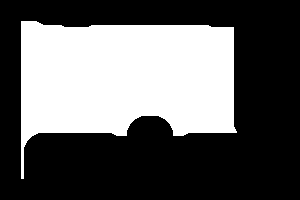
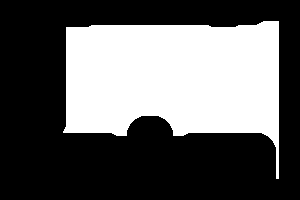
Consigne XY avec accès en arrière

Changed region(s): [[0.06, 0.09, 0.24, 0.9], [0.78, 0.09, 0.93, 0.9]]

diff --git a/robot-system-lib-parent/robot-system-lib-core/src/main/java/org/arig/robot/system/TrajectoryManager.java b/robot-system-lib-parent/robot-system-lib-core/src/main/java/org/arig/robot/system/TrajectoryManager.java
@@ -12,6 +12,7 @@ import org.arig.robot.model.Chemin;
 import org.arig.robot.model.CommandeRobot;
 import org.arig.robot.model.Point;
 import org.arig.robot.model.Position;
+import org.arig.robot.model.enums.SensDeplacement;
 import org.arig.robot.model.enums.SensRotation;
 import org.arig.robot.model.enums.TypeConsigne;
 import org.arig.robot.model.monitor.AbstractMonitorMouvement;
@@ -31,6 +32,7 @@ import org.springframework.beans.factory.InitializingBean;
 import org.springframework.beans.factory.annotation.Autowired;
 import org.springframework.beans.factory.annotation.Qualifier;
 
+import javax.validation.constraints.NotNull;
 import java.util.ArrayList;
 import java.util.concurrent.atomic.AtomicBoolean;
 import java.util.stream.Collectors;
@@ -289,10 +291,25 @@ public class TrajectoryManager implements InitializingBean, ITrajectoryManager {
             double consDist = calculDistance(dX, dY);
             double consOrient = calculAngleConsigne(dX, dY);
 
-            // Calcul du coef d'annulation de la distance
-            // Permet d'effectuer un demi tour en 3 temps.
-            if (startAngle != -1 && Math.abs(consOrient) > startAngle) {
-                consDist = (consDist * ((startAngle - Math.abs(consOrient)) / startAngle));
+            switch(cmdRobot.getSensDeplacement()) {
+                case DEMI_TOUR:
+                    if (startAngle != -1 && Math.abs(consOrient) > startAngle) {
+                        // Calcul du coef d'annulation de la distance
+                        // Permet d'effectuer un demi tour en 3 temps.
+                        consDist = (consDist * ((startAngle - Math.abs(consOrient)) / startAngle));
+
+                    }
+                    break;
+
+                case ARRIERE:
+                case AUTO:
+                    if (cmdRobot.getSensDeplacement() == SensDeplacement.ARRIERE || Math.abs(consOrient) > conv.degToPulse(90)) {
+                        // Atteindre la destination en arrière
+                        consDist = -consDist;
+                        consOrient = conv.degToPulse(ajusteAngleDeg(180 + conv.pulseToDeg(consOrient)));
+                    }
+                    break;
+
             }
 
             // Sauvegarde des consignes
@@ -338,11 +355,11 @@ public class TrajectoryManager implements InitializingBean, ITrajectoryManager {
      * @param angle angle a ajusté
      * @return Angle ajusté dans les borne -180 .. 180
      */
-    private double ajusteAngle(double angle) {
+    private double ajusteAngleDeg(double angle) {
         if (angle > 180) {
-            return ajusteAngle(angle - 360);
+            return ajusteAngleDeg(angle - 360);
         } else if (angle < -180) {
-            return ajusteAngle(angle + 360);
+            return ajusteAngleDeg(angle + 360);
         }
 
         // L'angle est dans les borne.
@@ -358,7 +375,7 @@ public class TrajectoryManager implements InitializingBean, ITrajectoryManager {
      * @return
      */
     private double calculAngleDelta(double angleOrig, double angle, SensRotation sensRotation) {
-        angle = ajusteAngle(angle);
+        angle = ajusteAngleDeg(angle);
 
         switch (sensRotation) {
             case TRIGO:
@@ -451,20 +468,19 @@ public class TrajectoryManager implements InitializingBean, ITrajectoryManager {
      */
     @Override
     public void pathTo(final double targetXmm, final double targetYmm) throws NoPathFoundException, AvoidingException {
-        pathTo(targetXmm, targetYmm, true);
+        pathTo(targetXmm, targetYmm, SensDeplacement.AUTO);
     }
-
 
     /**
      * Génération d'un déplacement avec le Path Finding
      *
      * @param targetXmm position sur l'axe X
      * @param targetYmm position sur l'axe Y
-     * @param avecArret
+     * @param sens Permet de définir le sens de déplacement souhaiter
      * @throws NoPathFoundException
      */
     @Override
-    public void pathTo(final double targetXmm, final double targetYmm, final boolean avecArret) throws NoPathFoundException, AvoidingException {
+    public void pathTo(final double targetXmm, final double targetYmm, final SensDeplacement sens) throws NoPathFoundException, AvoidingException {
         try {
             lidarService.waitCleanup();
         } catch (InterruptedException e) {
@@ -515,13 +531,16 @@ public class TrajectoryManager implements InitializingBean, ITrajectoryManager {
                     rs.enableAvoidance();
 
                     // Enchainement avec freinage, et alignement en rotation sur chaque point
-                    gotoPointMM(targetPoint.getX(), targetPoint.getY(), true);
+                    gotoPointMM(targetPoint.getX(), targetPoint.getY(), true, sens);
+
+                    // Enchainement avec freinage, et sans alignement en rotation
+                    //gotoPointMM(targetPoint.getX(), targetPoint.getY(), false, sens);
 
                     // Alignement en rotation sur le premier point, puis enchainement avec freinage jusqu'au dernier point
-                    //gotoPointMM(targetPoint.getX(), targetPoint.getY(), firstPoint);
+                    //gotoPointMM(targetPoint.getX(), targetPoint.getY(), firstPoint, sens);
 
                     // Alignement en rotation sur le premier point, puis enchainement sans freinage jusqu'au dernier point
-                    //gotoPointMM(targetPoint.getX(), targetPoint.getY(), firstPoint, !c.hasNext());
+                    //gotoPointMM(targetPoint.getX(), targetPoint.getY(), firstPoint, !c.hasNext(), sens);
 
                     // Après un tour ce n'est plus le premier point
                     firstPoint = false;
@@ -562,15 +581,28 @@ public class TrajectoryManager implements InitializingBean, ITrajectoryManager {
     }
 
     /**
-     * Méthode permettant de donner une consigne de position sur un point avec arret sur celui-ci.
+     * Méthode permettant de donner une consigne de position sur un point avec arret sur celui-ci en mode de déplacement AUTO.
      *
      * @param x position sur l'axe X
      * @param y position sur l'axe Y
      * @param avecOrientation Activation de l'orientation avant la translation
      */
     @Override
-    public void gotoPointMM(final double x, final double y, boolean avecOrientation) throws AvoidingException {
-        gotoPointMM(x, y, avecOrientation, true);
+    public void gotoPointMM(final double x, final double y, final boolean avecOrientation) throws AvoidingException {
+        gotoPointMM(x, y, avecOrientation, true, SensDeplacement.AUTO);
+    }
+
+    /**
+     * Méthode permettant de donner une consigne de position sur un point avec arret sur celui-ci.
+     *
+     * @param x position sur l'axe X
+     * @param y position sur l'axe Y
+     * @param avecOrientation Activation de l'orientation avant la translation
+     * @param sens Permet de définir le sens de déplacement souhaiter
+     */
+    @Override
+    public void gotoPointMM(final double x, final double y, final boolean avecOrientation, final SensDeplacement sens) throws AvoidingException {
+        gotoPointMM(x, y, avecOrientation, true, sens);
     }
 
     /**
@@ -578,10 +610,25 @@ public class TrajectoryManager implements InitializingBean, ITrajectoryManager {
      *
      * @param x         position sur l'axe X
      * @param y         position sur l'axe Y
+     * @param avecOrientation Activation de l'orientation avant la translation. Si true la marche avant est prioritaire.
      * @param avecArret demande d'arret sur le point
      */
     @Override
     public void gotoPointMM(final double x, final double y, final boolean avecOrientation, final boolean avecArret) throws AvoidingException  {
+        gotoPointMM(x, y, avecOrientation, avecArret, SensDeplacement.AUTO);
+    }
+
+    /**
+     * Méthode permettant de donner une consigne de position sur un point
+     *
+     * @param x         position sur l'axe X
+     * @param y         position sur l'axe Y
+     * @param avecOrientation Activation de l'orientation avant la translation. Si true la marche avant est prioritaire.
+     * @param avecArret demande d'arret sur le point
+     * @param sens Permet de définir le sens de déplacement souhaiter
+     */
+    @Override
+    public void gotoPointMM(final double x, final double y, final boolean avecOrientation, final boolean avecArret, final SensDeplacement sens) throws AvoidingException  {
         log.info("Va au point X = {}mm ; Y = {}mm {}", x, y, avecArret ? "et arrete toi" : "sans arret");
 
         if (avecOrientation) {
@@ -589,7 +636,24 @@ public class TrajectoryManager implements InitializingBean, ITrajectoryManager {
 
             // Alignement sur le point
             rs.disableAvoidance();
-            alignFrontTo(x, y);
+
+            final SensDeplacement realSens;
+            switch (sens) {
+                case ARRIERE: realSens = SensDeplacement.ARRIERE;break;
+                case AVANT: realSens = SensDeplacement.AVANT;break;
+                default:
+                    double dX = conv.mmToPulse(x) - currentPosition.getPt().getX();
+                    double dY = conv.mmToPulse(y) - currentPosition.getPt().getY();
+                    double angle = calculAngleConsigne(dX, dY);
+                    realSens = Math.abs(angle) < conv.degToPulse(90) ? SensDeplacement.AVANT : SensDeplacement.ARRIERE;
+                    break;
+            }
+
+            if (realSens == SensDeplacement.ARRIERE) {
+                alignBackTo(x, y);
+            } else {
+                alignFrontTo(x, y);
+            }
 
             // Retour de l'évittement si actif avant
             if (avoidanceEnabled) {
@@ -603,22 +667,7 @@ public class TrajectoryManager implements InitializingBean, ITrajectoryManager {
             cmdRobot.getPosition().getPt().setY(conv.mmToPulse(y));
             cmdRobot.setFrein(avecArret);
             cmdRobot.setTypes(TypeConsigne.XY);
-
-//            if (!disableMonitor) {
-//                double dX = (cmdRobot.getPosition().getPt().getX() - currentPosition.getPt().getX());
-//                double dY = (cmdRobot.getPosition().getPt().getY() - currentPosition.getPt().getY());
-//                double distance = calculDistance(dX, dY);
-//
-//                MonitorMouvementTranslation mTr = new MonitorMouvementTranslation();
-//                mTr.setFromPoint(new Point(
-//                        conv.pulseToMm(currentPosition.getPt().getX()),
-//                        conv.pulseToMm(currentPosition.getPt().getY())
-//                ));
-//                mTr.setToPoint(new Point(x, y));
-//                mTr.setDistance(conv.pulseToMm(distance));
-//                currentMouvement = mTr;
-//                monitoring.addMouvementPoint(mTr);
-//            }
+            cmdRobot.setSensDeplacement(sens);
 
             prepareNextMouvement();
         }

diff --git a/nerell-parent/nerell-common/src/main/java/org/arig/robot/Ordonanceur.java b/nerell-parent/nerell-common/src/main/java/org/arig/robot/Ordonanceur.java
@@ -177,16 +177,16 @@ public class Ordonanceur {
         final InputStream imgMap = patternResolver.getResource(fileResourcePath).getInputStream();
         pathFinder.construitGraphDepuisImageNoirEtBlanc(imgMap);
 
-        ecranService.displayMessage("Définition des zones 'mortes' de la carte.");
-        // Exclusion de toutes la zone pente et distributeur personel
-        tableUtils.addPersistentDeadZone(new java.awt.Rectangle.Double(0, 0, 3000, 457)); // Pente + petit distrib
-        if (robotStatus.getTeam() == Team.BLEU) {
-            // Zone départ adverse Jaune
-            tableUtils.addPersistentDeadZone(new java.awt.Rectangle.Double(0, 0, 300, 2000));
-        } else {
-            // Zone d&part adverse Bleu
-            tableUtils.addPersistentDeadZone(new java.awt.Rectangle.Double(2700, 0, 300, 2000));
-        }
+//        ecranService.displayMessage("Définition des zones 'mortes' de la carte.");
+//        // Exclusion de toutes la zone pente et distributeur personel
+//        tableUtils.addPersistentDeadZone(new java.awt.Rectangle.Double(0, 0, 3000, 457)); // Pente + petit distrib
+//        if (robotStatus.getTeam() == Team.BLEU) {
+//            // Zone départ adverse Jaune
+//            tableUtils.addPersistentDeadZone(new java.awt.Rectangle.Double(2700, 0, 300, 2000));
+//        } else {
+//            // Zone d&part adverse Bleu
+//            tableUtils.addPersistentDeadZone(new java.awt.Rectangle.Double(0, 0, 300, 2000));
+//        }
 
         // Initialisation Mouvement Manager
         ecranService.displayMessage("Initialisation du contrôleur de mouvement");
@@ -297,7 +297,7 @@ public class Ordonanceur {
                 robotStatus.enableCalageBordure();
                 trajectoryManager.reculeMMSansAngle(1000);
 
-                if (robotStatus.getTeam() == Team.JAUNE) {
+                if (robotStatus.getTeam() == Team.BLEU) {
                     position.getPt().setX(conv.mmToPulse(IConstantesNerellConfig.dstCallageY));
                     position.setAngle(conv.degToPulse(0));
                 } else {
@@ -316,24 +316,24 @@ public class Ordonanceur {
 
                 trajectoryManager.avanceMM(150);
 
-                if (robotStatus.getTeam() == Team.JAUNE) {
-                    trajectoryManager.gotoPointMM(250, 1500, true);
+                if (robotStatus.getTeam() == Team.BLEU) {
+                    trajectoryManager.gotoPointMM(250, 1200, true);
                 } else {
-                    trajectoryManager.gotoPointMM(2750, 1500, true);
+                    trajectoryManager.gotoPointMM(2750, 1200, true);
                 }
 
-                // Aligne vers le distributeur centre
-                if (robotStatus.getTeam() == Team.JAUNE) {
-                    trajectoryManager.alignFrontTo(750, 700);
+                // Aligne vers l'eceuil'
+                if (robotStatus.getTeam() == Team.BLEU) {
+                    trajectoryManager.alignFrontTo(540, 1800);
                 } else {
-                    trajectoryManager.alignFrontTo(2250, 700);
+                    trajectoryManager.alignFrontTo(3000 - 540, 1800);
                 }
             } else {
-                if (robotStatus.getTeam() == Team.JAUNE) {
-                    position.setPt(new Point(conv.mmToPulse(250), conv.mmToPulse(1500)));
+                if (robotStatus.getTeam() == Team.BLEU) {
+                    position.setPt(new Point(conv.mmToPulse(250), conv.mmToPulse(1200)));
                     position.setAngle(conv.degToPulse(0));
                 } else {
-                    position.setPt(new Point(conv.mmToPulse(2750), conv.mmToPulse(1500)));
+                    position.setPt(new Point(conv.mmToPulse(2750), conv.mmToPulse(1200)));
                     position.setAngle(conv.degToPulse(180));
                 }
             }

diff --git a/nerell-parent/nerell-utils/src/main/java/org/arig/robot/nerell/utils/shell/commands/AsservissementCommands.java b/nerell-parent/nerell-utils/src/main/java/org/arig/robot/nerell/utils/shell/commands/AsservissementCommands.java
@@ -11,6 +11,7 @@ import org.arig.robot.model.CommandeRobot;
 import org.arig.robot.model.Point;
 import org.arig.robot.model.Position;
 import org.arig.robot.model.RobotStatus;
+import org.arig.robot.model.enums.SensDeplacement;
 import org.arig.robot.model.enums.TypeConsigne;
 import org.arig.robot.monitoring.IMonitoringWrapper;
 import org.arig.robot.services.IIOService;
@@ -88,11 +89,11 @@ public class AsservissementCommands {
 
     @ShellMethodAvailability("alimentationOk")
     @ShellMethod("Asservissement du robot")
-    public void asservRobot(@NotNull TypeConsigne[] typeConsignes, long distance, long orientation, long vitesseDistance, long vitesseOrientation) {
+    public void asservRobot(@NotNull TypeConsigne[] typeConsignes, @NotNull long distance, @NotNull long orientation, @NotNull long vitesseDistance, @NotNull long vitesseOrientation, @NotNull SensDeplacement sens) {
         startMonitoring();
 
-
         cmdRobot.setTypes(typeConsignes);
+        cmdRobot.setSensDeplacement(sens);
         cmdRobot.getVitesse().setDistance(vitesseDistance);
         cmdRobot.getVitesse().setOrientation(vitesseOrientation);
         cmdRobot.getConsigne().setDistance((long) convRobot.mmToPulse(distance));
@@ -104,10 +105,11 @@ public class AsservissementCommands {
 
     @ShellMethodAvailability("alimentationOk")
     @ShellMethod("Asservissement du robot en XY")
-    public void asservRobotXY(@NotNull double x, @NotNull double y, @NotNull double angle, long vitesseDistance, long vitesseOrientation) {
+    public void asservRobotXY(@NotNull double x, @NotNull double y, @NotNull double angle, @NotNull long vitesseDistance, @NotNull long vitesseOrientation, @NotNull SensDeplacement sens) {
         startMonitoring();
 
         cmdRobot.setTypes(TypeConsigne.XY);
+        cmdRobot.setSensDeplacement(sens);
         cmdRobot.getVitesse().setDistance(vitesseDistance);
         cmdRobot.getVitesse().setOrientation(vitesseOrientation);
         final Point pt = new Point(convRobot.mmToPulse(x), convRobot.mmToPulse(y));

diff --git a/robot-system-lib-parent/robot-system-lib-core/src/main/java/org/arig/robot/system/ITrajectoryManager.java b/robot-system-lib-parent/robot-system-lib-core/src/main/java/org/arig/robot/system/ITrajectoryManager.java
@@ -2,6 +2,7 @@ package org.arig.robot.system;
 
 import org.arig.robot.exception.AvoidingException;
 import org.arig.robot.exception.NoPathFoundException;
+import org.arig.robot.model.enums.SensDeplacement;
 import org.arig.robot.model.enums.SensRotation;
 import org.arig.robot.model.monitor.AbstractMonitorMouvement;
 
@@ -16,11 +17,15 @@ public interface ITrajectoryManager {
 
     void pathTo(double x, double y) throws NoPathFoundException, AvoidingException;
 
-    void pathTo(double x, double y, boolean avecArret) throws NoPathFoundException, AvoidingException;
+    void pathTo(double x, double y, SensDeplacement sens) throws NoPathFoundException, AvoidingException;
 
     void gotoPointMM(double x, double y, boolean avecOrientation) throws AvoidingException;
 
+    void gotoPointMM(double x, double y, boolean avecOrientation, SensDeplacement sens) throws AvoidingException;
+
     void gotoPointMM(double x, double y, boolean avecOrientation, boolean avecArret) throws AvoidingException;
+
+    void gotoPointMM(double x, double y, boolean avecOrientation, boolean avecArret, SensDeplacement sens) throws AvoidingException;
 
     void gotoOrientationDeg(double angle) throws AvoidingException;
 

diff --git a/robot-system-lib-parent/robot-system-lib-core/src/main/java/org/arig/robot/model/CommandeRobot.java b/robot-system-lib-parent/robot-system-lib-core/src/main/java/org/arig/robot/model/CommandeRobot.java
@@ -3,6 +3,7 @@ package org.arig.robot.model;
 import lombok.AccessLevel;
 import lombok.Data;
 import lombok.Getter;
+import org.arig.robot.model.enums.SensDeplacement;
 import org.arig.robot.model.enums.TypeConsigne;
 
 import java.util.ArrayList;
@@ -39,6 +40,8 @@ public class CommandeRobot {
     private ConsigneAsservissementPolaire consigne;
 
     private boolean frein;
+
+    private SensDeplacement sensDeplacement = SensDeplacement.AUTO;
 
     @Getter(AccessLevel.NONE)
     private final List<TypeConsigne> types = new ArrayList<>();

diff --git a/nerell-parent/nerell-common/src/main/java/org/arig/robot/constants/IConstantesNerellConfig.java b/nerell-parent/nerell-common/src/main/java/org/arig/robot/constants/IConstantesNerellConfig.java
@@ -94,8 +94,8 @@ public interface IConstantesNerellConfig {
     double arretOrientDeg = 1;
     double approcheDistanceMm = 100;
     double approcheOrientationDeg = 5;
-    double angleReculDeg = 0.45;
-    //double angleReculDeg = -1;
+    //double angleReculDeg = 0.45;
+    double angleReculDeg = -1;
 
     // TODO : A déterminer de manière empirique
     double seuilErreurPidOrientation = 25000;

diff --git a/robot-system-lib-parent/robot-system-lib-core/src/main/java/org/arig/robot/model/enums/SensDeplacement.java b/robot-system-lib-parent/robot-system-lib-core/src/main/java/org/arig/robot/model/enums/SensDeplacement.java
@@ -1,0 +1,8 @@
+package org.arig.robot.model.enums;
+
+public enum SensDeplacement {
+    AVANT,
+    ARRIERE,
+    DEMI_TOUR,
+    AUTO
+}
